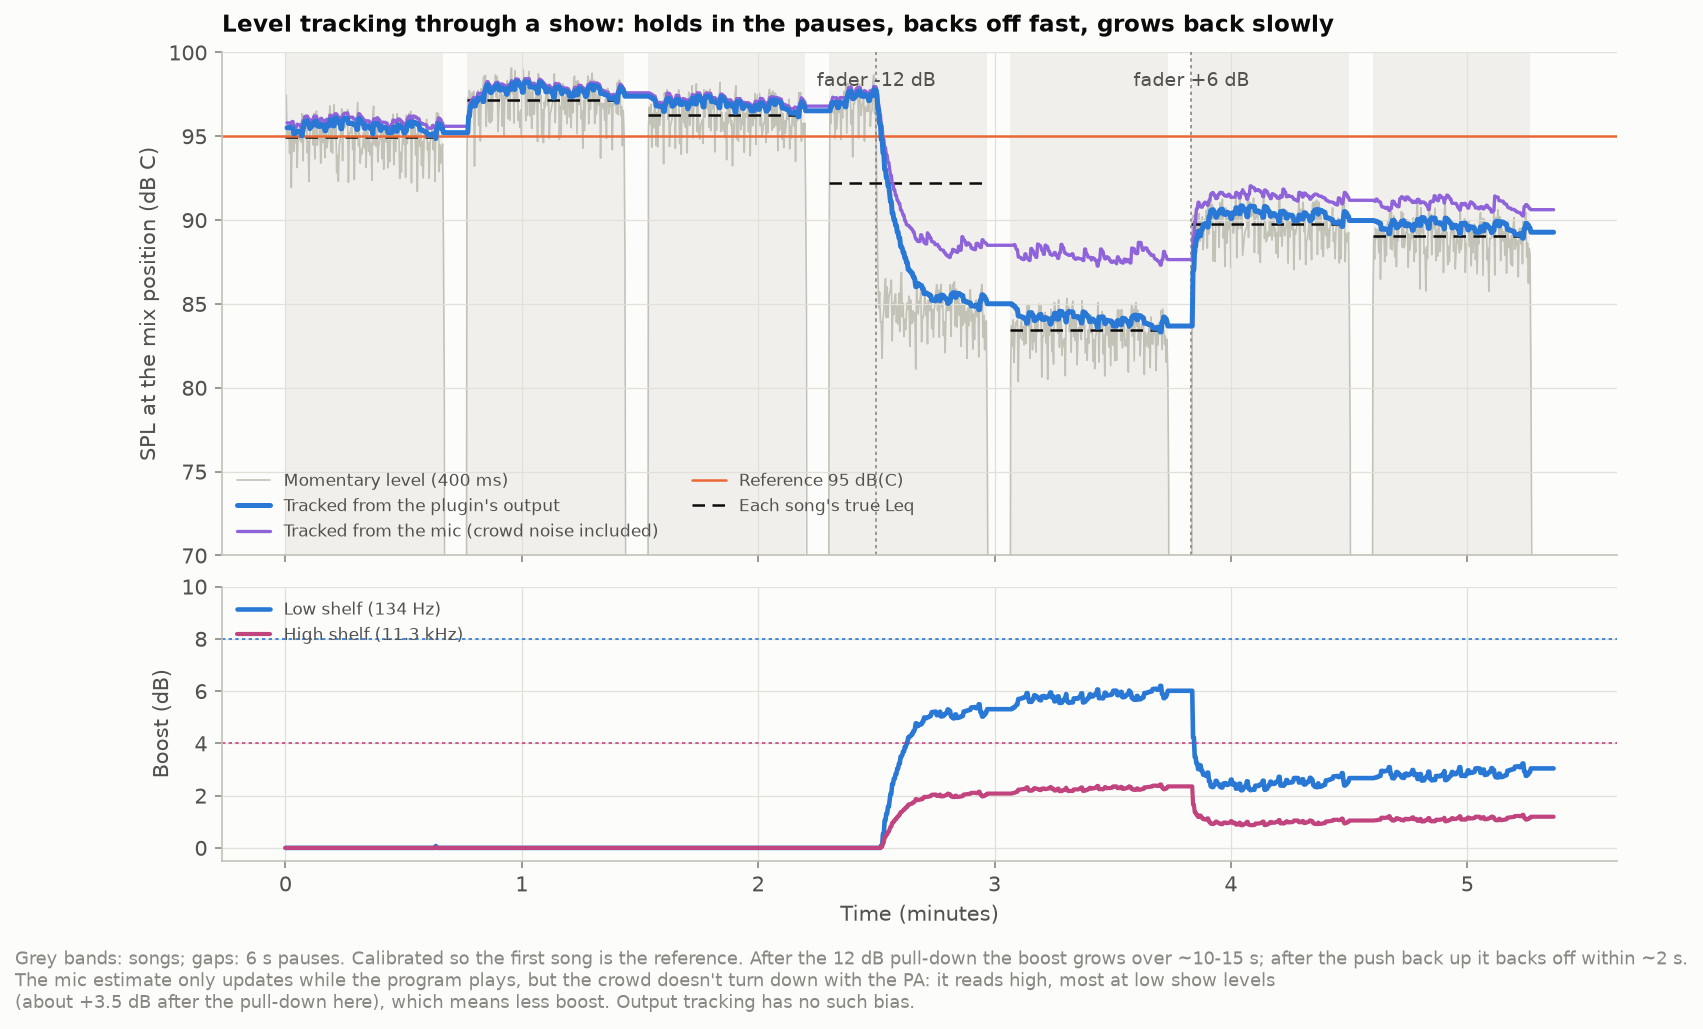
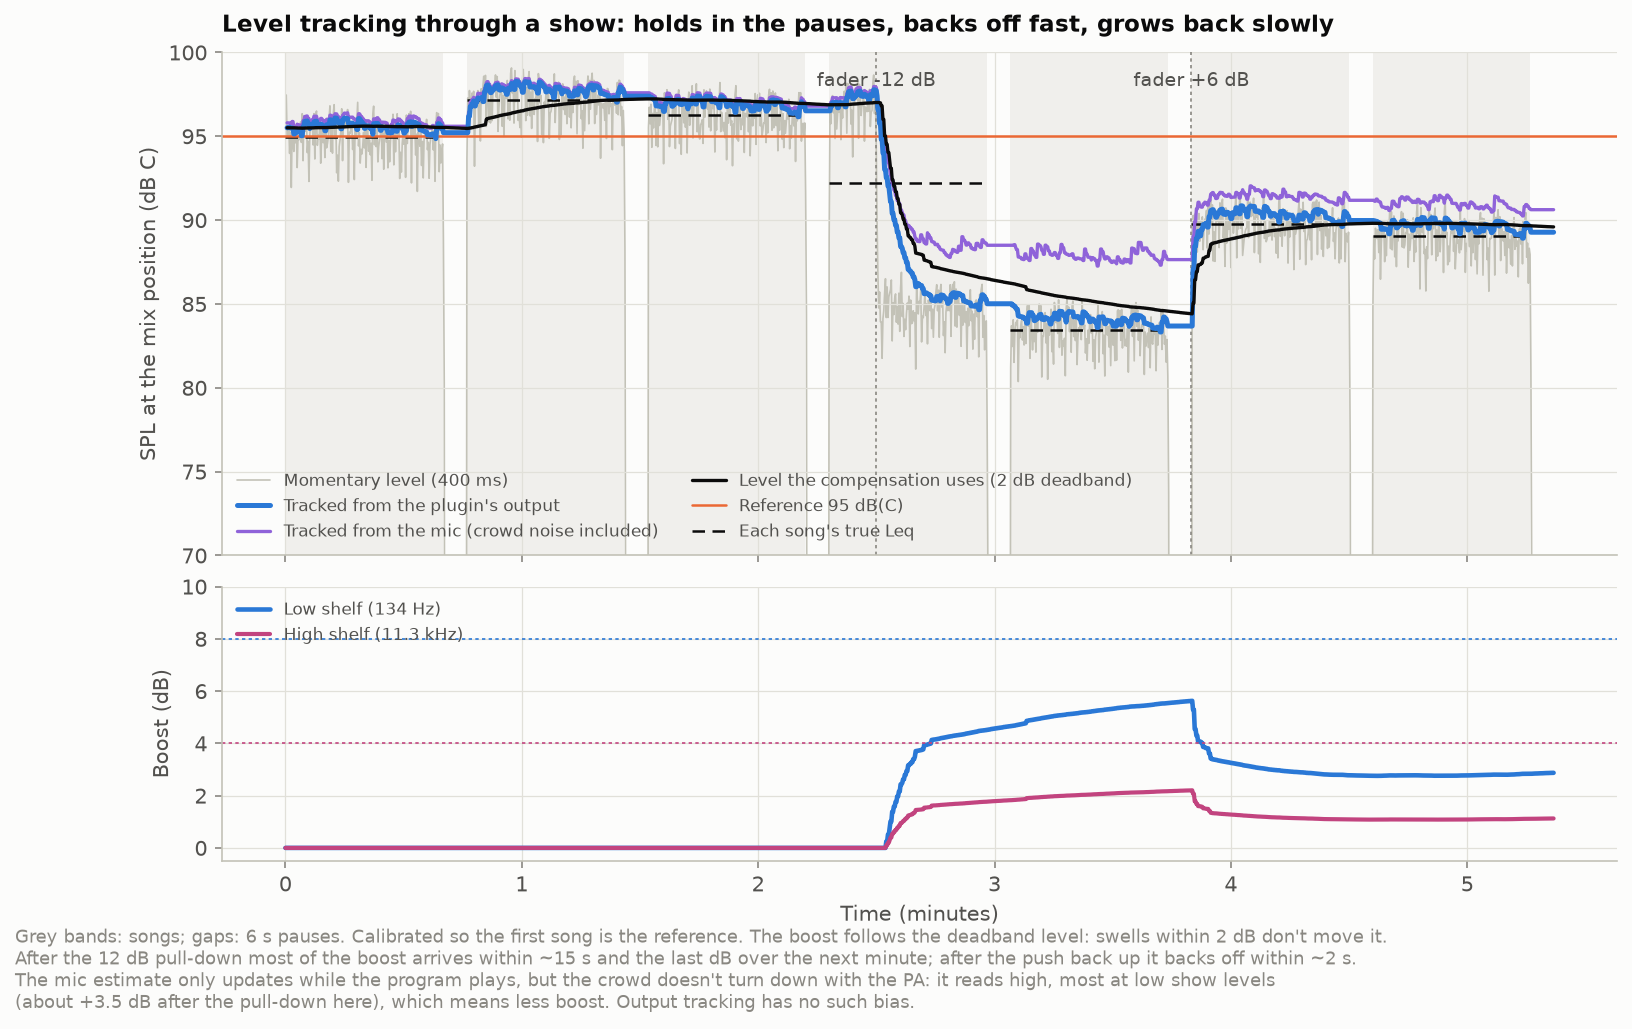
Add the deadband and re-check to the Phase 3 prototype
- Deadband: the level the compensation uses only moves when the tracked
  level pushes more than 2 dB past it (backlash, so no steps) and drifts
  towards it over ~30 s otherwise. The music's swells barely move the EQ;
  a real change still lands exactly.
- Re-check: ~10 s of program, plugin output vs mic, compared per third
  octave with the transfer stored at calibration (dual-FFT H1 with its
  noise bias removed, so crowd noise drops out); the median change
  re-anchors the output-to-SPL calibration after an amp or fader change
  after the plugin. In the simulated club it finds 0 / +4 / -6 dB amp
  changes within 0.6 dB with a crowd 10 dB under the program.

Claude-Session: https://claude.ai/code/session_0183bro7tD7dj58NBGzjNooN

diff --git a/prototype/roomeq/loudness.py b/prototype/roomeq/loudness.py
@@ -21,6 +21,15 @@ SPL and the reference SPL is applied as a low shelf and a high shelf.
   followed.
 - Optional protective high-pass (24 dB/octave) at the PA's measured low-end
   roll-off, rising up to half an octave as the low boost reaches its maximum.
+- Deadband: the compensation's level only moves when the estimate pushes
+  more than 2 dB past it, and otherwise drifts towards it over ~30 s, so the
+  EQ doesn't wander with the music's dynamics but still ends up exactly on a
+  real change.
+- Re-check: ~10 s of program, output vs mic, re-anchors the calibration if
+  the gain after the plugin changed (amps, a fader after it). It compares the
+  output-to-mic transfer function per third octave with the one stored at
+  calibration (dual-FFT H1, so crowd noise, uncorrelated with the output,
+  drops out); the median change is the gain change.
 """
 
 from __future__ import annotations
@@ -30,7 +39,7 @@ from dataclasses import dataclass
 import numpy as np
 import scipy.signal as ss
 
-from . import filters, iso226
+from . import dualfft, filters, iso226
 from .filters import HIGH_PASS, HIGH_SHELF, LOW_SHELF, Band
 
 
@@ -49,6 +58,8 @@ class LoudnessConfig:
     pause_hold_s: float = 8.0         # ...unless it lasts longer than this
     hp_track: bool = False
     hp_rise_octaves: float = 0.5
+    deadband_db: float = 2.0          # level changes smaller than this don't move the EQ...
+    drift_s: float = 30.0             # ...except by a slow drift that lands it on the level
 
 
 # ---------------------------------------------------------------------------
@@ -248,3 +259,71 @@ class LevelTracker:
             a = 1 - np.exp(-dt / cfg.speed_s)
             self.estimate += a * (momentary - self.estimate)
         return True
+
+
+class Deadband:
+    """The level the compensation uses. It only moves when the tracked estimate
+    pushes more than `deadband_db` past it (backlash: no steps, the music's
+    swells never reach it); inside the band it drifts towards the estimate
+    with a `drift_s` time constant, so after a real change it lands exactly
+    on the new level. Called once per tracker window."""
+
+    def __init__(self, cfg: LoudnessConfig):
+        self.cfg = cfg
+        self.held: float | None = None
+
+    def update(self, estimate: float | None) -> float | None:
+        if estimate is None:
+            return self.held
+        if self.held is None:
+            self.held = estimate
+        elif estimate > self.held + self.cfg.deadband_db:
+            self.held = estimate - self.cfg.deadband_db
+        elif estimate < self.held - self.cfg.deadband_db:
+            self.held = estimate + self.cfg.deadband_db
+        else:
+            self.held += (1 - np.exp(-self.cfg.window_s / self.cfg.drift_s)) * (estimate - self.held)
+        return self.held
+
+
+# ---------------------------------------------------------------------------
+# Re-check: has the gain after the plugin changed since calibration?
+
+RECHECK_BANDS = np.array([63.0 * 2 ** (k / 3) for k in range(22)])   # third octaves, 63 Hz - 8 kHz
+
+
+def transfer_bands_db(output: np.ndarray, mic: np.ndarray, fs: float, min_coherence: float = 0.3) -> np.ndarray:
+    """Output-to-mic gain per third octave (dB, NaN where the program didn't
+    excite the band or the mic didn't hear it coherently)."""
+    est = dualfft.transfer_function(output, mic, fs)
+    gate = dualfft.excitation_gate(est) > 0
+    out = np.full(len(RECHECK_BANDS), np.nan)
+    for i, fc in enumerate(RECHECK_BANDS):
+        sel = (est.freqs >= fc * 2 ** (-1 / 6)) & (est.freqs < fc * 2 ** (1 / 6)) & gate
+        if np.count_nonzero(sel) < 3:
+            continue
+        if np.mean(est.coherence[sel]) < min_coherence:
+            continue
+        # |H1|^2 averaged over a band reads high by the incoherent power / K
+        # (K = segments averaged); remove that before averaging.
+        coherent = np.abs(est.H[sel]) ** 2 * est.gxx[sel]
+        incoherent = np.maximum(est.gyy[sel] - coherent, 0.0)
+        h2 = np.maximum(coherent - incoherent / est.n_segments, 0.0) / est.gxx[sel]
+        if np.mean(h2) <= 0:
+            continue
+        out[i] = 10 * np.log10(np.mean(h2))
+    return out
+
+
+def recheck_gain_change(calibration_bands: np.ndarray, now_bands: np.ndarray, min_bands: int = 6) -> float | None:
+    """Median per-band change (dB) between calibration and now, or None if too few bands compare."""
+    both = np.isfinite(calibration_bands) & np.isfinite(now_bands)
+    if np.count_nonzero(both) < min_bands:
+        return None
+    return float(np.median(now_bands[both] - calibration_bands[both]))
+
+
+def recalibrated(cal: Calibration, gain_change_db: float) -> Calibration:
+    """The gain after the plugin went up by gain_change_db: the same output level now gives that much more SPL."""
+    return Calibration(output_dbfs=cal.output_dbfs - gain_change_db, spl=cal.spl,
+                       mic_dbfs=cal.mic_dbfs)

diff --git a/prototype/make_phase3_plots.py b/prototype/make_phase3_plots.py
@@ -93,20 +93,26 @@ def plot_tracking():
     cal = loudness.Calibration(output_dbfs=cal_out, spl=REF, mic_dbfs=cal_mic)
 
     out_tr, mic_tr = loudness.LevelTracker(FS, CFG), loudness.LevelTracker(FS, CFG)
+    deadband = loudness.Deadband(CFG)
+    held_level = None
     y = loudness.ss.sosfilt(loudness.c_weighting_sos(FS), x)
     block = 512
-    times, est_out, est_mic, momentary, lows, highs = [], [], [], [], [], []
+    times, est_out, est_mic, momentary, lows, highs, held = [], [], [], [], [], [], []
     for i in range(0, len(x) - block + 1, block):
         out_tr.process(x[i:i + block])
         mic_tr.process(mic[i:i + block], follow=out_tr)
+        if out_tr.count < block:                   # a window just completed
+            held_level = deadband.update(out_tr.estimate)
         if (i // block) % 20 == 0:
             times.append(i / FS)
             spl = cal.spl_from_output(out_tr.estimate) if out_tr.estimate is not None else np.nan
             est_out.append(spl)
+            held_spl = cal.spl_from_output(held_level) if held_level is not None else np.nan
+            held.append(held_spl)
             est_mic.append(cal.spl_from_mic(mic_tr.estimate) if mic_tr.estimate is not None else np.nan)
             seg = y[max(0, i - int(0.4 * FS)):i + 1]
             momentary.append(cal.spl_from_output(10 * np.log10(np.mean(seg ** 2) + 1e-30)) if len(seg) > 10 else np.nan)
-            low, high = loudness.shelf_gains(PLAN, spl, CFG) if np.isfinite(spl) else (0.0, 0.0)
+            low, high = loudness.shelf_gains(PLAN, held_spl, CFG) if np.isfinite(held_spl) else (0.0, 0.0)
             lows.append(low)
             highs.append(high)
     times = np.array(times) / 60.0
@@ -122,6 +128,7 @@ def plot_tracking():
     ax.plot(times, np.clip(momentary, 40, None), color=CONTEXT, lw=0.8, label="Momentary level (400 ms)", zorder=1)
     ax.plot(times, est_out, color=BLUE, lw=2.4, label="Tracked from the plugin's output", zorder=4)
     ax.plot(times, est_mic, color=VIOLET, lw=1.6, label="Tracked from the mic (crowd noise included)", zorder=3)
+    ax.plot(times, held, color=INK, lw=1.6, label="Level the compensation uses (2 dB deadband)", zorder=5)
     ax.axhline(REF, color=ORANGE, lw=1.2, label=f"Reference {REF:g} dB(C)")
     ax.plot([], [], color=INK, lw=1.2, ls=(0, (5, 3)), label="Each song's true Leq")
     for t0, g in events[1:]:
@@ -140,8 +147,10 @@ def plot_tracking():
     ax2.set_ylabel("Boost (dB)")
     ax2.set_xlabel("Time (minutes)")
     ax2.legend(loc="upper left", fontsize=8)
-    fig.text(0.01, -0.03, "Grey bands: songs; gaps: 6 s pauses. Calibrated so the first song is the reference. After the "
-             "12 dB pull-down the boost grows over ~10-15 s; after the push back up it backs off within ~2 s.\nThe mic "
+    fig.text(0.01, -0.03, "Grey bands: songs; gaps: 6 s pauses. Calibrated so the first song is the reference. The boost follows the "
+             "deadband level: swells within 2 dB don't move it.\nAfter the "
+             "12 dB pull-down most of the boost arrives within ~15 s and the last dB over the next minute; after the push back up it "
+             "backs off within ~2 s.\nThe mic "
              "estimate only updates while the program plays, but the crowd doesn't turn down with the PA: it reads high, most "
              "at low show levels\n(about +3.5 dB after the pull-down here), which means less boost. Output tracking has no such bias.",
              color=MUTED, fontsize=8.5)

diff --git a/prototype/tests/test_loudness.py b/prototype/tests/test_loudness.py
@@ -159,3 +159,55 @@ def test_mic_tracking_ignores_the_crowd_in_pauses():
     program_at_mic = loudness.c_weighted_level_dbfs(0.1 * program[:10 * fs], fs)
     assert np.allclose(in_pause, in_pause[0])                                    # held through the pause
     assert 0.0 < est[-1] - program_at_mic < 1.5                                  # crowd reads slightly high: less boost
+
+
+# ---------------------------------------------------------------------------
+# Deadband and re-check
+
+def test_deadband_ignores_the_music_but_lands_on_a_real_change():
+    fs, block = 48000, 512
+    tr, db = LevelTracker(fs, CFG), loudness.Deadband(CFG)
+    # 60 s whose level swells +-1.5 dB every 8 s, then a 6 dB pull-down.
+    t = np.arange(60 * fs) / fs
+    swell = pink(60, -20.0, seed=11) * 10 ** (1.5 * np.sin(2 * np.pi * t / 8.0) / 20)
+    held, estimates = [], []
+    for x in (swell, pink(90, -26.0, seed=12)):
+        for i in range(0, len(x) - block + 1, block):
+            tr.process(x[i:i + block])
+            if tr.count < block:                  # a window just completed
+                held.append(db.update(tr.estimate))
+                estimates.append(tr.estimate)
+    held, estimates = np.array(held, dtype=float), np.array(estimates, dtype=float)
+    minute = slice(int(10 / CFG.window_s), int(60 / CFG.window_s))
+    assert np.ptp(estimates[minute]) > 1.0                    # the tracker follows the swells...
+    assert np.ptp(held[minute]) < 0.5                         # ...the EQ barely moves
+    after = held[int(60 / CFG.window_s):]
+    assert np.all(np.diff(after) <= 1e-9)                    # it follows the pull-down smoothly (no steps back)
+    assert held[-1] == pytest.approx(-26.0, abs=0.5)         # and lands on it
+
+
+def test_recheck_finds_an_amp_change_through_the_crowd(sim):
+    fs = 48000
+    rng = np.random.default_rng(21)
+    # Calibration: pink noise at the mix position (quiet room).
+    cal_noise = pink(10, -20.0, seed=13)
+    cal_bands = loudness.transfer_bands_db(cal_noise, sim.play(cal_noise, 0, roomsim.NoiseSpec(pink_dbfs=-75.0), rng), fs)
+    assert np.count_nonzero(np.isfinite(cal_bands)) >= 18
+
+    program = roomsim.synthetic_program(12.0, fs, rng)
+    clean = sim.play(program, 0, roomsim.NoiseSpec(pink_dbfs=None), rng)
+    crowd_dbfs = loudness.c_weighted_level_dbfs(clean, fs) - 10.0            # crowd 10 dB under the program at the mic
+    for amp_change in (0.0, 4.0, -6.0):
+        heard = 10 ** (amp_change / 20) * clean + roomsim.make_noise(
+            len(clean), fs, roomsim.NoiseSpec(pink_dbfs=None, babble_dbfs=crowd_dbfs + amp_change * 0), rng)
+        change = loudness.recheck_gain_change(cal_bands, loudness.transfer_bands_db(program, heard, fs))
+        assert change == pytest.approx(amp_change, abs=0.6), amp_change
+    cal = Calibration(output_dbfs=-22.0, spl=95.0)
+    assert loudness.recalibrated(cal, 4.0).spl_from_output(-22.0) == pytest.approx(99.0)
+
+
+def test_recheck_refuses_without_enough_program():
+    cal = np.zeros(len(loudness.RECHECK_BANDS))
+    now = np.full(len(loudness.RECHECK_BANDS), np.nan)
+    now[:3] = 1.0
+    assert loudness.recheck_gain_change(cal, now) is None

diff --git a/prototype/README.md b/prototype/README.md
@@ -71,5 +71,7 @@ Re-measuring the simulated club through the fitted filters lands within 0.3–0.
    - Mic tracking only updates while the plugin's output shows program playing.
 3. **Target:** the ISO 226 contour difference between the current SPL and the reference, `[Lp(f, now) − now] − [Lp(f, ref) − ref]`, zero at or above the reference.
 4. **Shelves:** that difference keeps its shape as the level drops and just scales, so a low shelf and a high shelf are fitted once per reference level (frequency and Q). A table then gives their gains for every dB below the reference. They stay within 0.8 dB of the ISO curve from 30 Hz to 16 kHz for drops up to 20 dB.
-5. **Limits:** amount, max low boost (8 dB), max high boost (4 dB), and a fixed 12 dB low-boost ceiling.
-6. **Protective high-pass (optional):** 24 dB/octave at the PA's measured roll-off, rising up to half an octave as the low boost reaches its maximum.
+5. **Deadband:** the level the compensation uses only moves when the tracked level pushes more than 2 dB past it; inside that it drifts towards it over ~30 s. So the music's dynamics don't make the EQ wander, but a real change still lands exactly.
+6. **Re-check:** ~10 s of program, plugin output vs mic, re-anchors the calibration if the gain after the plugin has changed (amps, a fader after it). It compares the output-to-mic transfer per third octave (63 Hz–8 kHz) with the one stored at calibration, using the dual-FFT H1 with its noise bias removed, so crowd noise drops out. The median change across bands is the gain change. It refuses when fewer than 6 bands compare.
+7. **Limits:** amount, max low boost (8 dB), max high boost (4 dB), and a fixed 12 dB low-boost ceiling.
+8. **Protective high-pass (optional):** 24 dB/octave at the PA's measured roll-off, rising up to half an octave as the low boost reaches its maximum.
